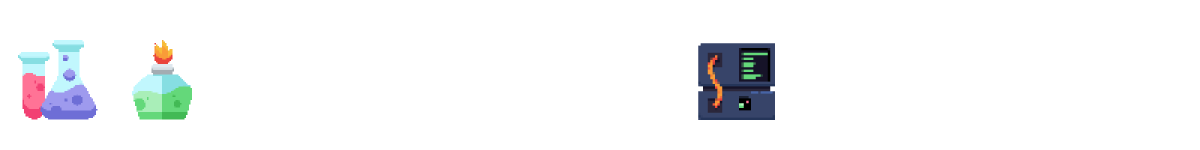
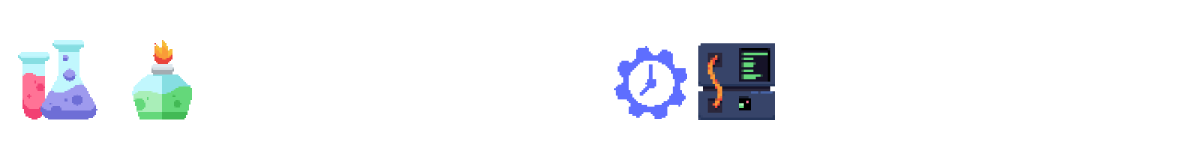
add cog as last obstacles

Changed region(s): [[0.4933, 0.32, 0.5858, 0.8]]

diff --git a/public/trex-runner/js/obstacle.js b/public/trex-runner/js/obstacle.js
@@ -36,6 +36,7 @@
  * @const
  */
 Obstacle.MAX_GAP_COEFFICIENT = 1.5;
+Obstacle.LAST_OBSTACLE_INDEX = 3;
 
 
 Obstacle.prototype = {
@@ -208,21 +209,17 @@ Obstacle.types = [
   },
   {
     type: 'COG', //  this was petro //TODO: CHANGE THIS
-    width: 80,
+    width: 40,
     height: 40,
-    yPos: 95, // Variable height.
+    yPos: 100, // Variable height.
     //yPosMobile: [ 100, 50 ], // Variable height mobile.
     multipleSpeed: 7,
     minSpeed: 0, //this was 8.5
     minGap: 150,
     collisionBoxes: [
-      new CollisionBox(40, 0, 10, 40),
-      new CollisionBox(30, 0, 10, 40),
-      new CollisionBox(15, 20, 50, 10),
-      new CollisionBox(10, 30, 60, 10)
-    ]//,
-    //numFrames: 1,
-    //frameRate: 1000/6//,
-    //speedOffset: 1
+      new CollisionBox(0, 7, 5, 27), //TODO: change this
+      new CollisionBox(4, 0, 6, 34),
+      new CollisionBox(10, 4, 7, 14)
+    ]
   }
 ];

diff --git a/public/trex-runner/js/game.js b/public/trex-runner/js/game.js
@@ -155,7 +155,7 @@
 			CONFETTI: { x: 1649, y: 3 }, //to check
 			COIN: { x: 1111, y: 4 }, //to check
 			GEM: { x: 1114, y: 26 }, //to check
-			COG: { x: 736, y: 10 }, //to check
+			COG: {x:613, y:45}  //to check
 		},
 		HDPI: {
 			CACTUS_LARGE: { x: 652, y: 2 },
@@ -174,7 +174,8 @@
 			COG: { x: 1472, y: 20 },
 			DOUBLE_POTION: {x:17, y:40},
 			POTION: {x:131, y:38},
-			PC: {x:698, y:42}
+			PC: {x:698, y:42},
+			COG: {x:613, y:45}
 		},
 	};
 

diff --git a/public/trex-runner/js/horizon.js b/public/trex-runner/js/horizon.js
@@ -191,7 +191,7 @@ updateObstacles: function(deltaTime, currentSpeed) {
 
     var obstacleTypeIndex = 0;
     if(Riddle.ON && this.tot_obstacles == Riddle.MAX_OBSTACLES){
-        obstacleTypeIndex = 2;
+        obstacleTypeIndex = Obstacle.LAST_OBSTACLE_INDEX;
     } else if(!Runner.config.DUCKING){
         //exclude last one that is pterdactyl
         obstacleTypeIndex = getRandomNum(0, Obstacle.types.length - 2);
